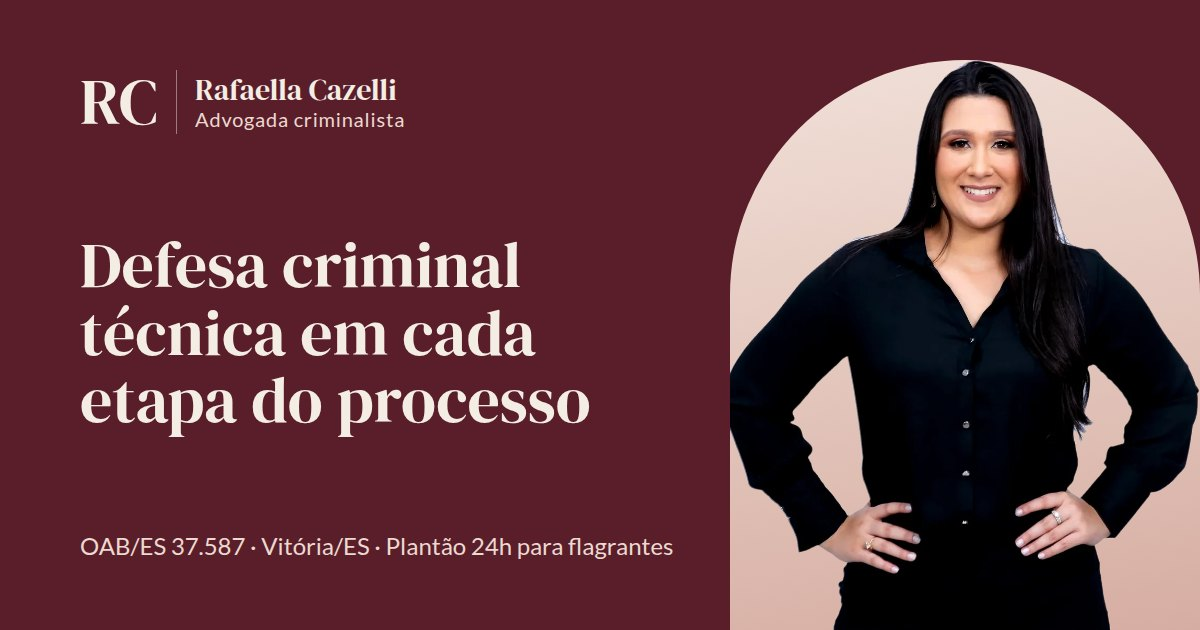
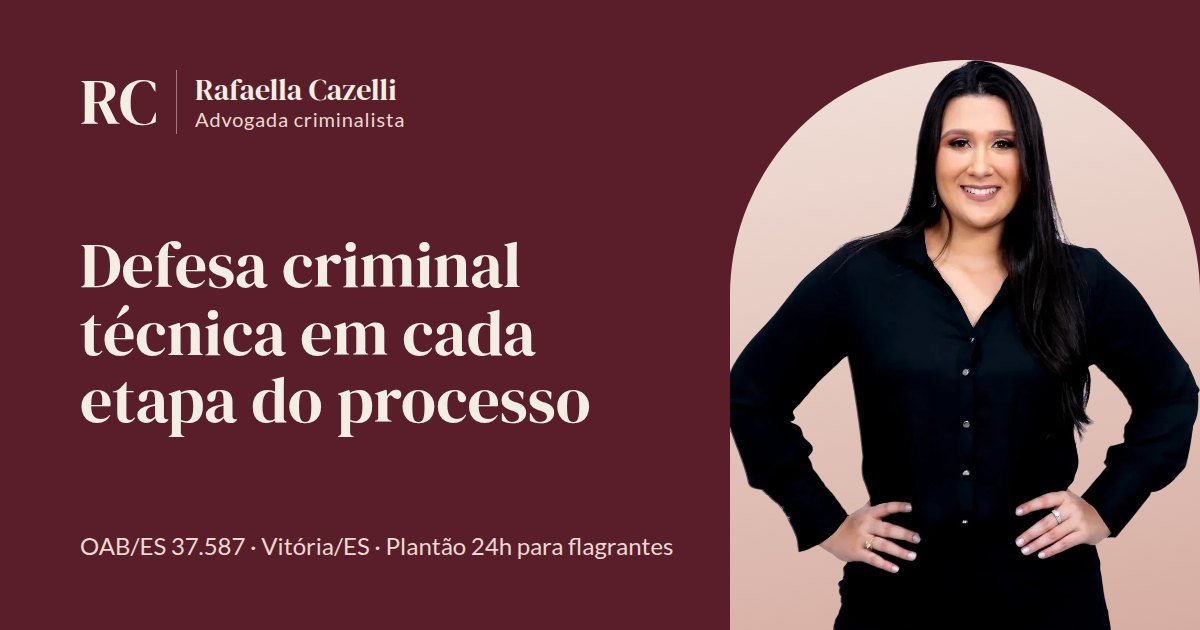
Refaz o recorte da foto da Rafaella
O recorte anterior removia só o branco puro e deixava uma faixa clara
nas bordas do cabelo e da blusa, além de pontos de fundo entre as
mechas. O novo recorte estima a transparência de cada pixel da borda,
remove o branco misturado na cor e escurece os fios finos que deixavam
o fundo aparecer. A imagem de compartilhamento foi gerada de novo com
a foto nova.

Claude-Session: https://claude.ai/code/session_015fvyTUoR3CmFhhEHFSogLb

diff --git a/index.html b/index.html
@@ -52,7 +52,7 @@
           </div>
         </div>
         <div class="hero-photo">
-          <div class="frame"><img src="assets/img/rafaella.webp" width="900" height="1135" alt="Rafaella Cazelli, advogada criminalista" fetchpriority="high"></div>
+          <div class="frame"><img src="assets/img/rafaella.webp" width="900" height="1134" alt="Rafaella Cazelli, advogada criminalista" fetchpriority="high"></div>
           <div class="badge"><span class="live" aria-hidden="true"></span><div><b>Plantão para flagrantes</b><span>Atendimento 24 horas pelo WhatsApp</span></div></div>
         </div>
       </div>
